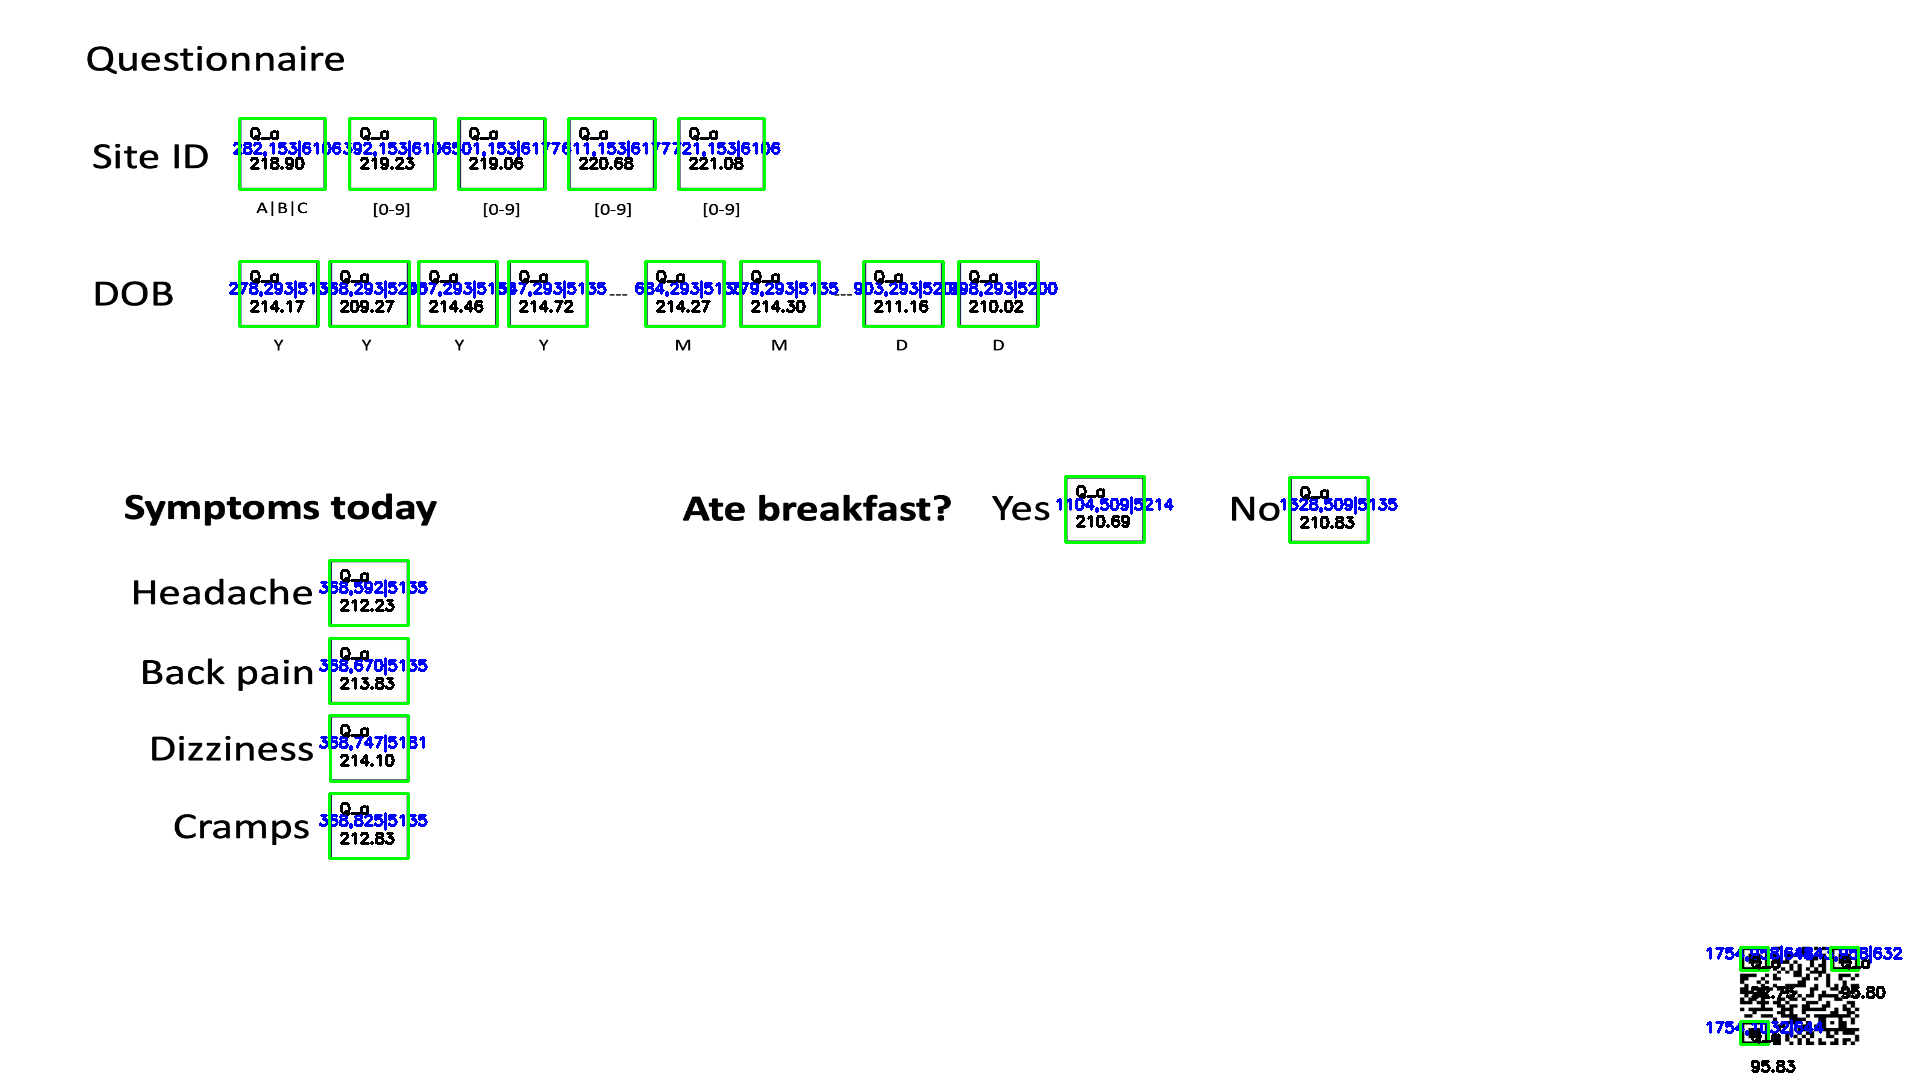
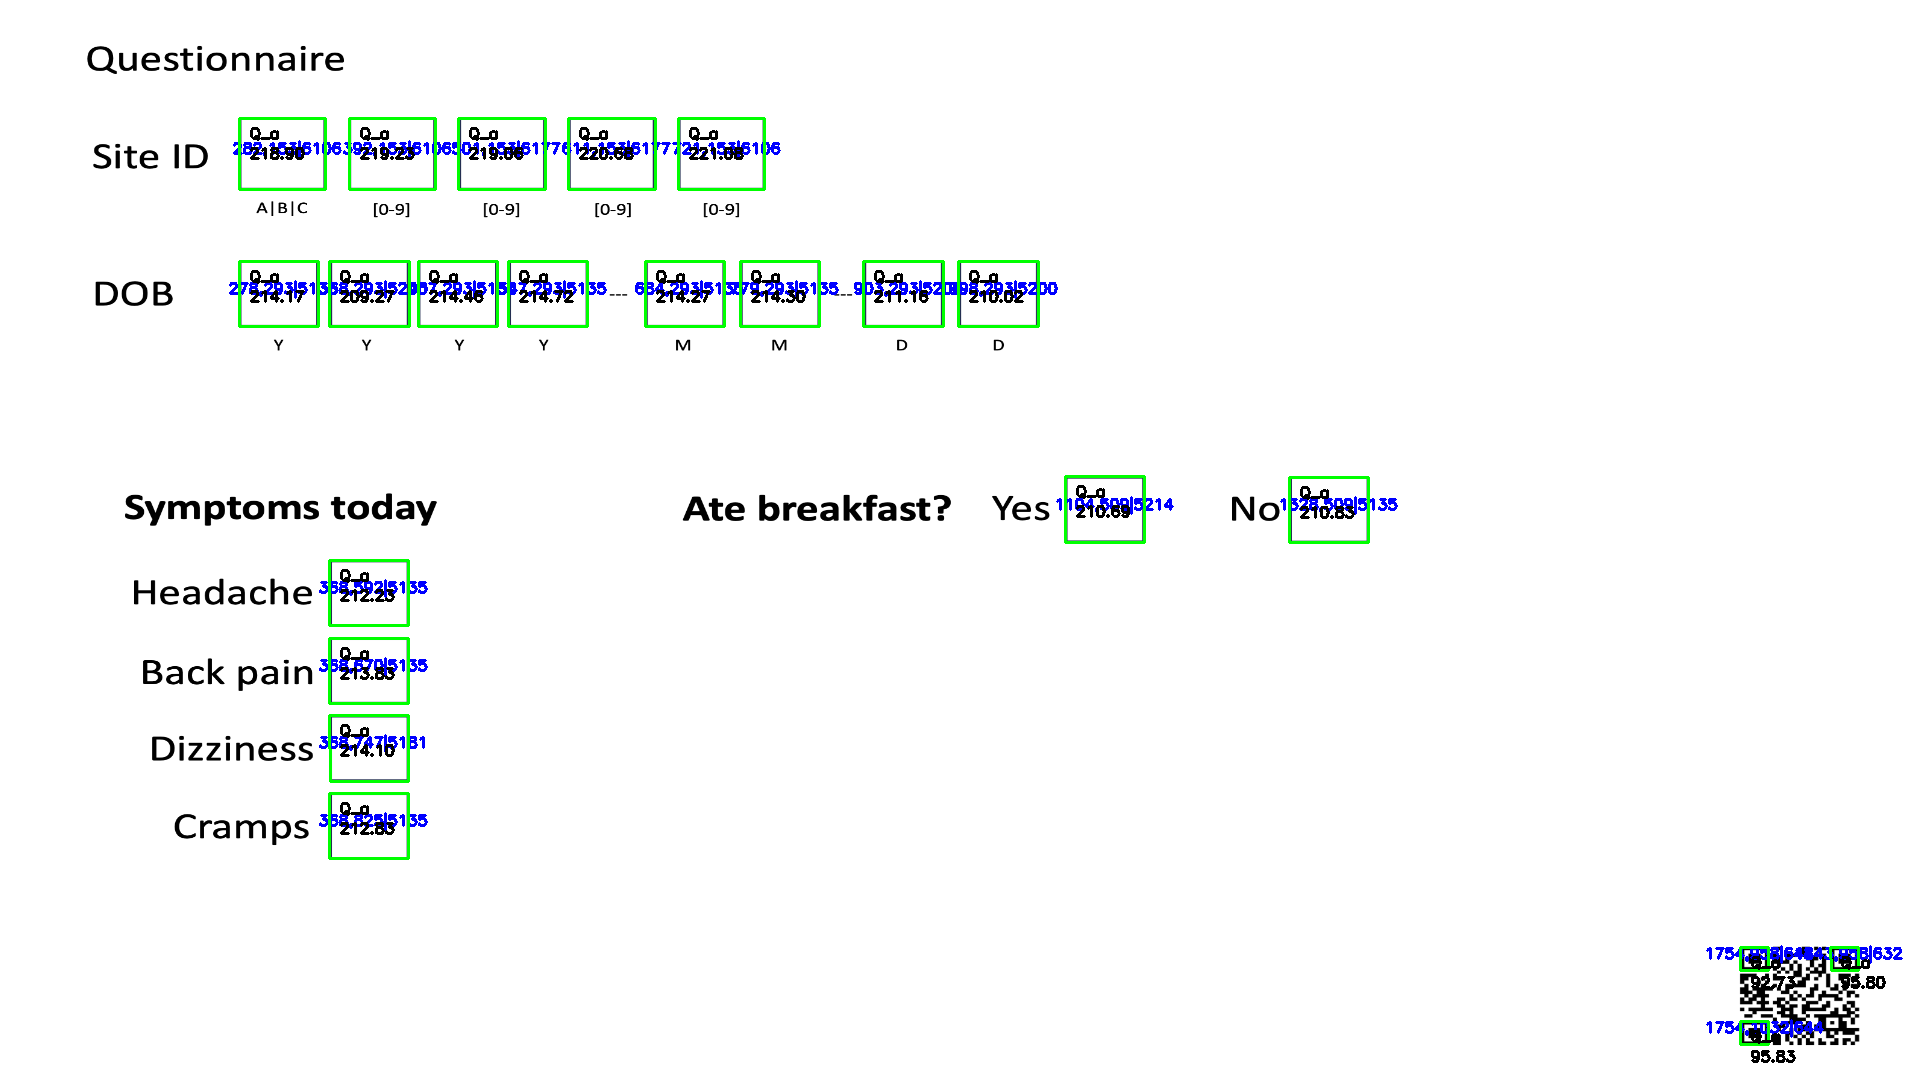
Updates examples

diff --git a/test_boxes.py b/test_boxes.py
@@ -67,7 +67,7 @@ def draw_boxes(image, checkboxes, threshold_results):
         #cv2.putText(image, position_text, (x, y - 40), cv2.FONT_HERSHEY_SIMPLEX, 0.5, (0, 0, 0), 2)  # Black color
 
         #cv2.putText(image, threshold_result_text, (x+10, y + 35), cv2.FONT_HERSHEY_SIMPLEX, 0.5, (0, 0, 0), 2)  # Black color
-        cv2.putText(image, intensity_text, (x+10, y + 50), cv2.FONT_HERSHEY_SIMPLEX, 0.5, (0, 0, 0), 2)  # Black color
+        cv2.putText(image, intensity_text, (x+10, y + 40), cv2.FONT_HERSHEY_SIMPLEX, 0.5, (0, 0, 0), 2)  # Black color
         cv2.putText(image, label_text, (x+10, y + 20), cv2.FONT_HERSHEY_SIMPLEX, 0.5, (0, 0, 0), 2)  # Black color
                                        
 def process_image(image_path, template, output_dir, threshold):
